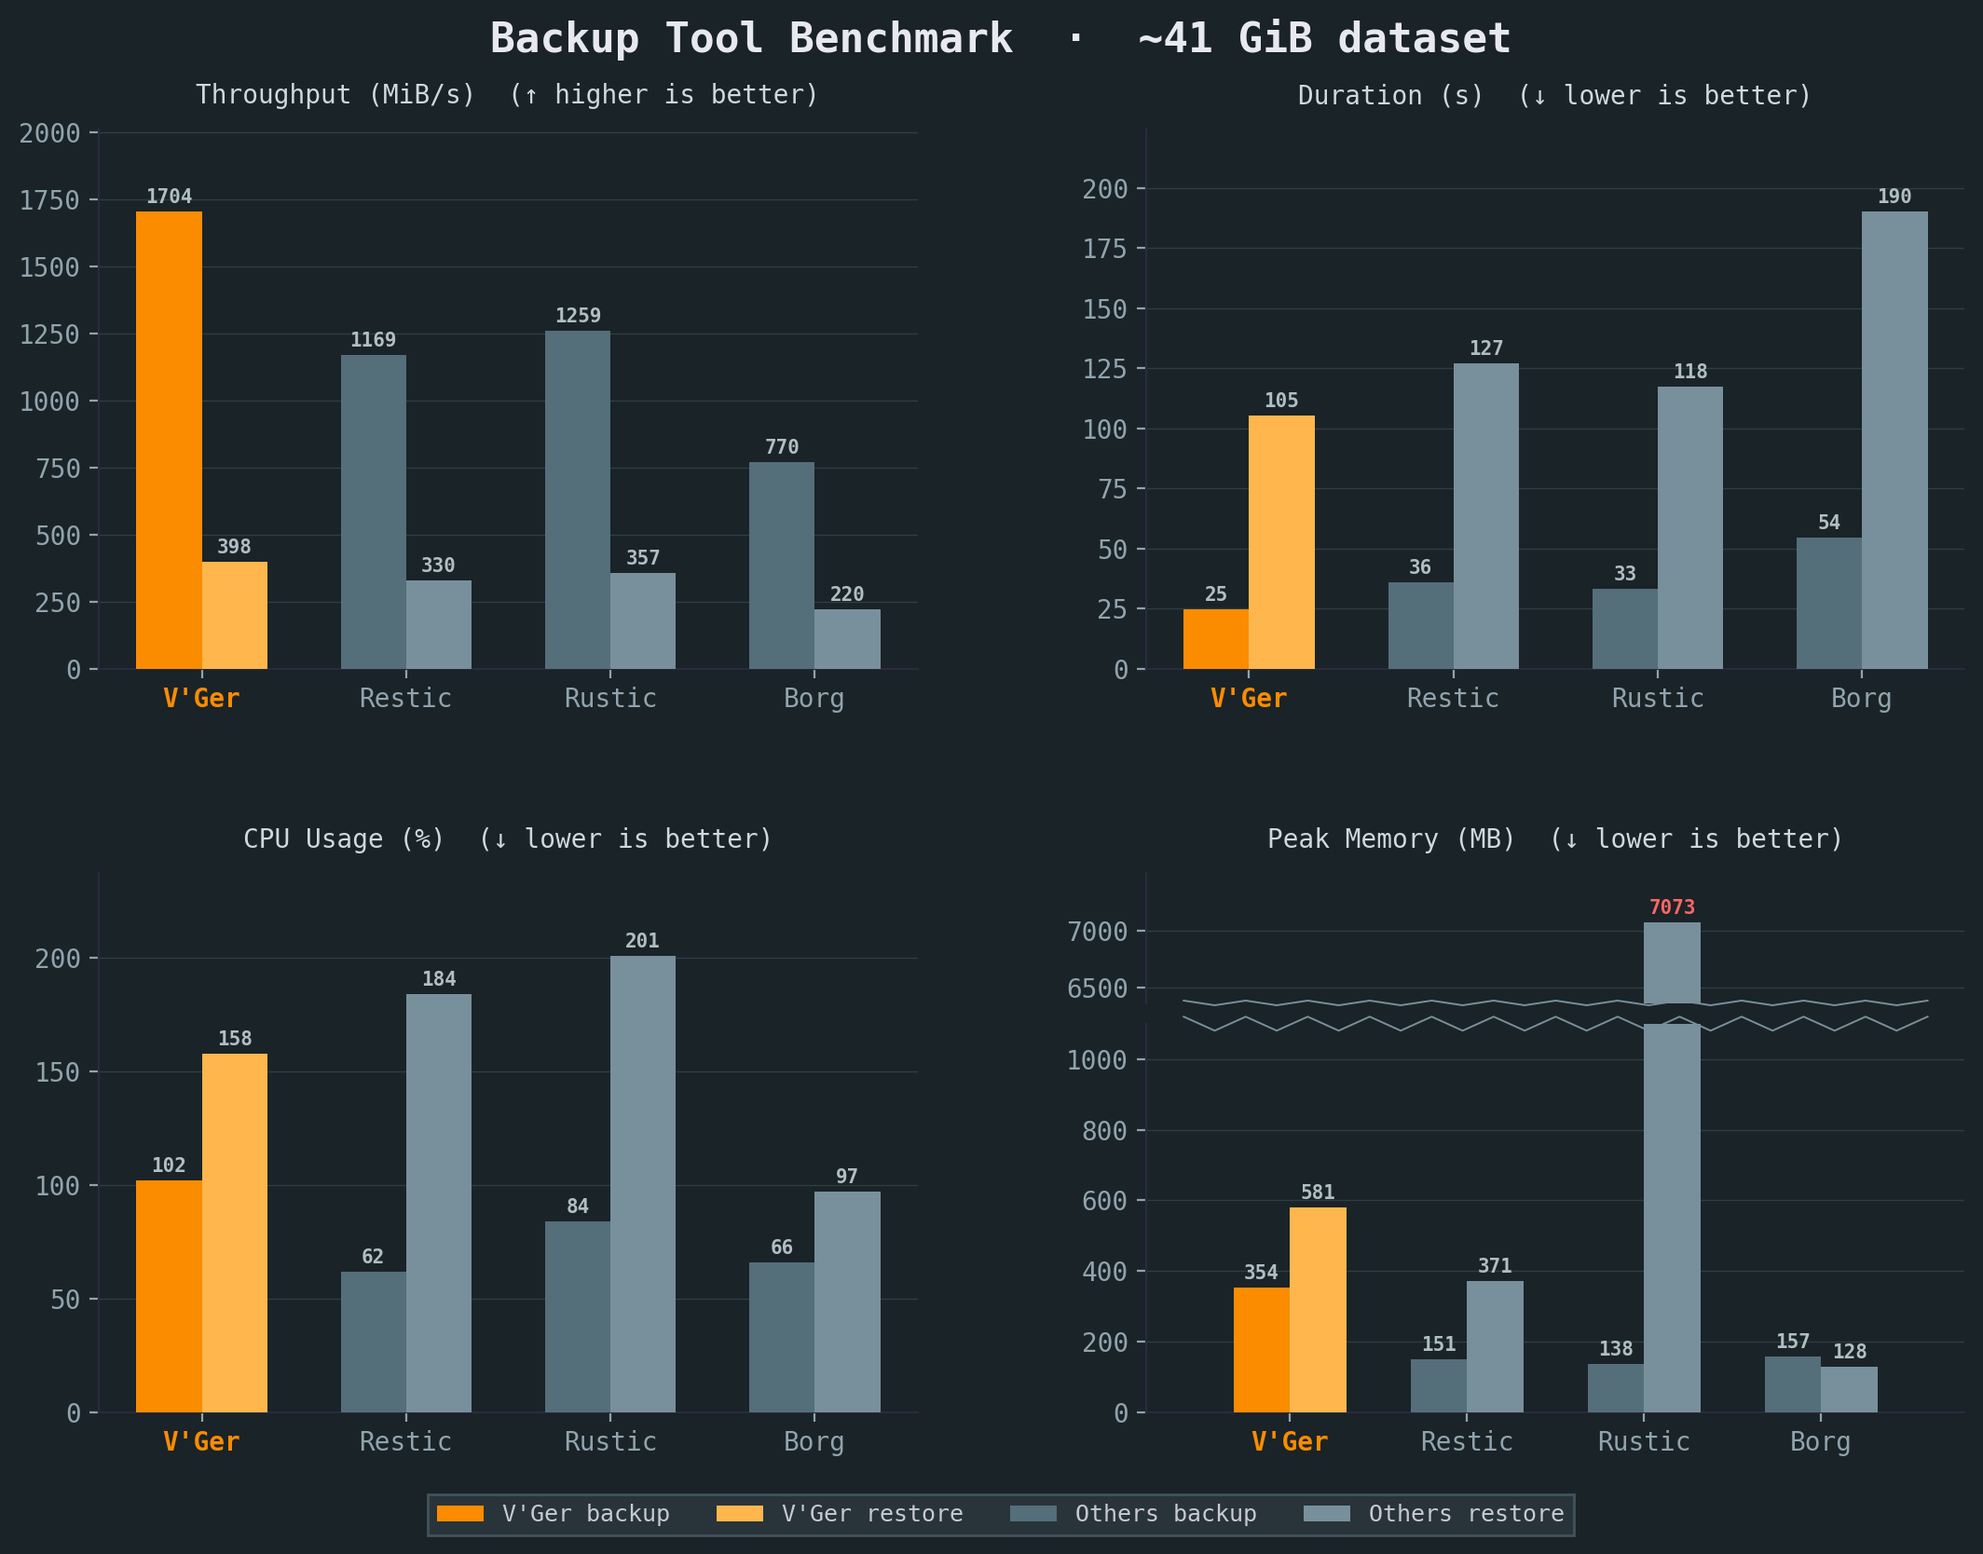
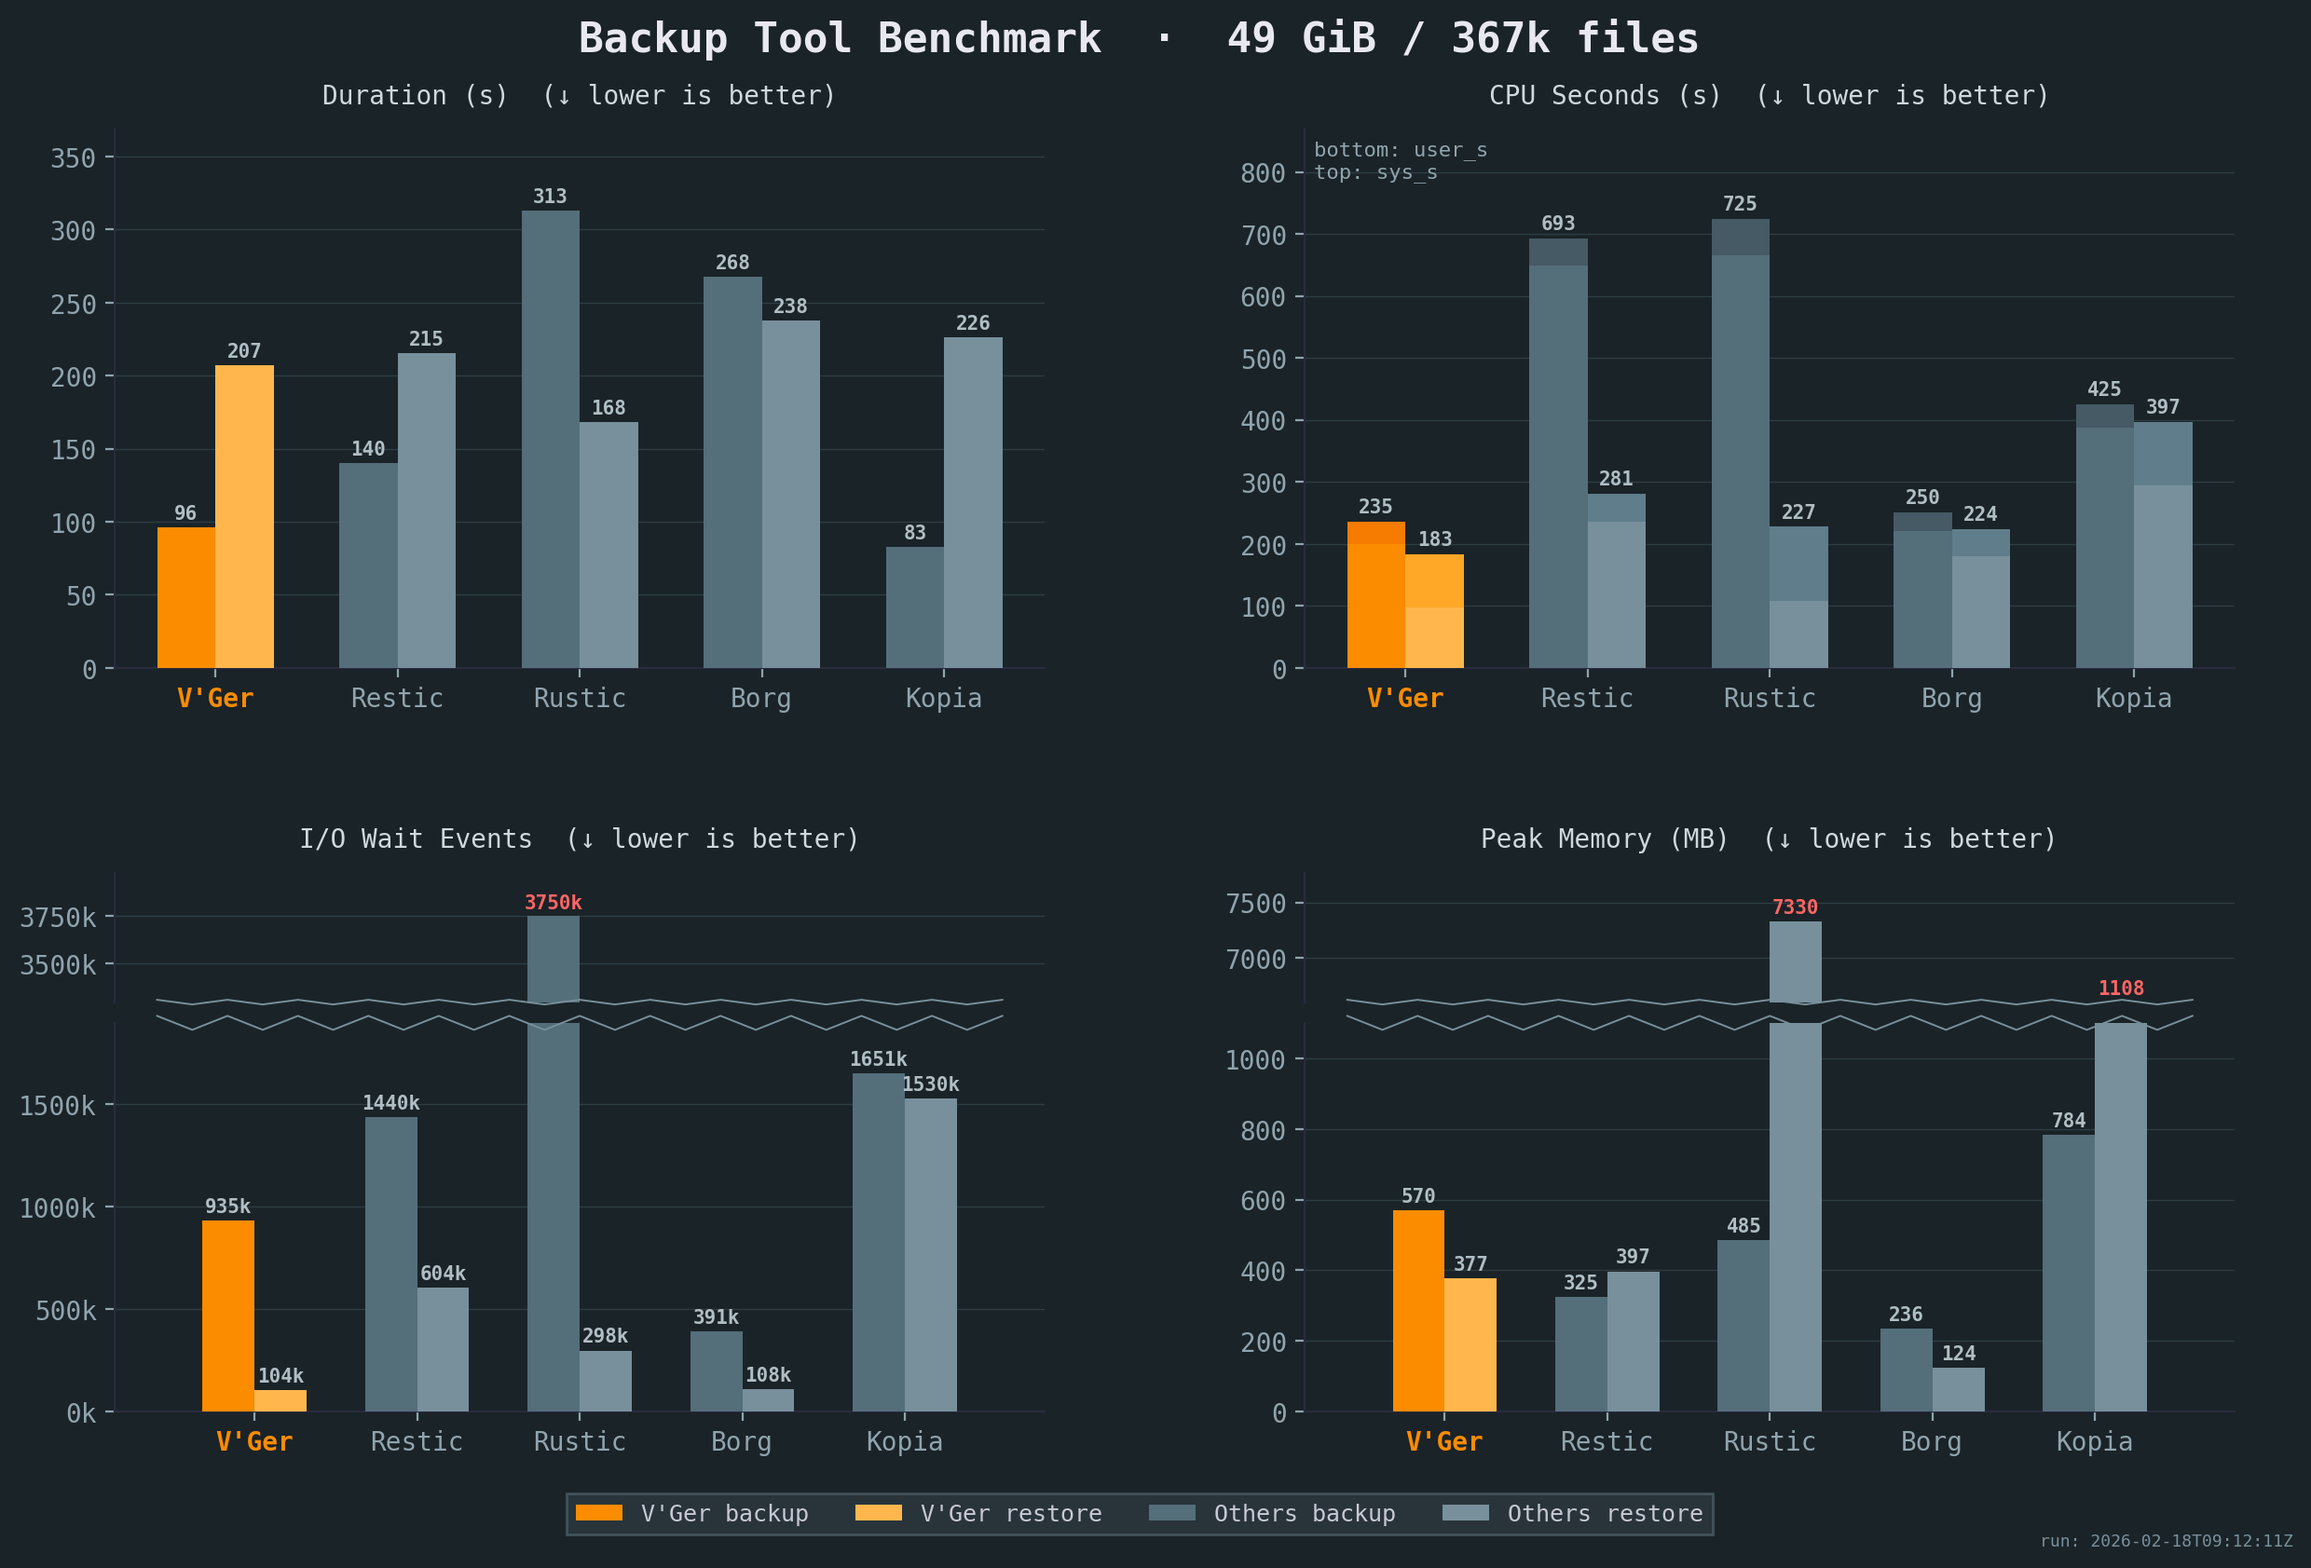
docs: update benchmark chart

diff --git a/README.md b/README.md
@@ -12,23 +12,23 @@ Inspired by [BorgBackup](https://github.com/borgbackup/borg/), [Borgmatic](https
 
 ## Features
 
-- **Deduplication** via FastCDC content-defined chunking with a memory-optimized engine (tiered dedup index + mmap-backed pack assembly)
-- **Compression** with LZ4 (default), Zstandard, or none
-- **Encryption** with AES-256-GCM or ChaCha20-Poly1305 (auto-selected) and Argon2id key derivation
 - **Storage backends** — local filesystem, S3-compatible storage, SFTP
-- **YAML-based configuration** with multiple repositories, hooks, and command dumps
-- **REST server** with append-only enforcement, quotas, and server-side compaction
+- **Encryption** with AES-256-GCM or ChaCha20-Poly1305 (auto-selected) and Argon2id key derivation
+- **YAML-based configuration** with multiple repositories, hooks, and command dumps for monitoring and database backups
+- **Deduplication** via FastCDC content-defined chunking with a memory-optimized engine (tiered dedup index + mmap-backed pack assembly)
+- **Compression** with LZ4 or Zstandard
 - **Built-in WebDAV and desktop GUI** to browse and restore snapshots
+- **REST server** with append-only enforcement, quotas, and server-side compaction
 - **Rate limiting** for CPU, disk I/O, and network bandwidth
 
 
 ## Benchmarks
 
-V'Ger achieves the best speed and throughput of any comparable backup tool, while using fewer CPU cycles.
+V'Ger leads in both speed and CPU efficiency, while maintaining competitive memory usage.
 
 ![Backup Tool Benchmark](docs/src/images/benchmark.summary.png)
 
-<small>See our [e2e testing skill](https://github.com/borgbase/vger/blob/main/.claude/commands/e2e-tests/benchmarks.md) for full benchmark details. All benchmarks were run on the same Intel i7-6700 CPU @ 3.40GHz machine with 2x Samsung PM981 NVMe. Compression and resulting repository sizes were comparable. Sample corpus is a mix of files including the Linux kernel, a Wikipedia dump and an Ubuntu ISO.</small>
+All benchmarks were run on the same idle Intel i7-6700 CPU @ 3.40GHz machine with 2x Samsung PM981 NVMe drives. Compression settings were chosen to keep resulting repository sizes comparable. The sample corpus is a mix of small and large files with varying compressibility. See our [benchmark script](https://github.com/borgbase/vger/tree/main/scripts) for full details.
 
 
 ## Quick start

diff --git a/docs/src/index.md b/docs/src/index.md
@@ -8,23 +8,23 @@ V'Ger is a fast, encrypted, deduplicated backup tool written in Rust. It's cente
 
 ## Features
 
-- **Deduplication** via FastCDC content-defined chunking with a memory-optimized engine (tiered dedup index + mmap-backed pack assembly)
-- **Compression** with LZ4 (default), Zstandard, or none
-- **Encryption** with AES-256-GCM or ChaCha20-Poly1305 (auto-selected) and Argon2id key derivation
 - **Storage backends** — local filesystem, S3-compatible storage, SFTP
-- **YAML-based configuration** with multiple repositories, hooks, and command dumps
-- **REST server** with append-only enforcement, quotas, and server-side compaction
+- **Encryption** with AES-256-GCM or ChaCha20-Poly1305 (auto-selected) and Argon2id key derivation
+- **YAML-based configuration** with multiple repositories, hooks, and command dumps for monitoring and database backups
+- **Deduplication** via FastCDC content-defined chunking with a memory-optimized engine (tiered dedup index + mmap-backed pack assembly)
+- **Compression** with LZ4 or Zstandard
 - **Built-in WebDAV and desktop GUI** to browse and restore snapshots
+- **REST server** with append-only enforcement, quotas, and server-side compaction
 - **Rate limiting** for CPU, disk I/O, and network bandwidth
 
 
 ## Benchmarks
 
-V'Ger achieves the best speed and throughput of any comparable backup tool, while using fewer CPU cycles.
+V'Ger leads in both speed and CPU efficiency, while maintaining competitive memory usage.
 
 ![Backup Tool Benchmark](images/benchmark.summary.png)
 
-<small>See our [e2e testing skill](https://github.com/borgbase/vger/blob/main/.claude/commands/e2e-tests/benchmarks.md) for full benchmark details. All benchmarks were run on the same Intel i7-6700 CPU @ 3.40GHz machine with 2x Samsung PM981 NVMe. Compression and resulting repository sizes comparable. Sample corpus is a mix of files including the Linux kernel, a Wikipedia dump and an Ubuntu ISO.</small>
+<small>All benchmarks were run on the same idle Intel i7-6700 CPU @ 3.40GHz machine with 2x Samsung PM981 NVMe drives. Compression settings were chosen to keep resulting repository sizes comparable. The sample corpus is a mix of small and large files with varying compressibility. See our [benchmark script](https://github.com/borgbase/vger/tree/main/scripts) for full details.</small>
 
 
 ## Comparison
